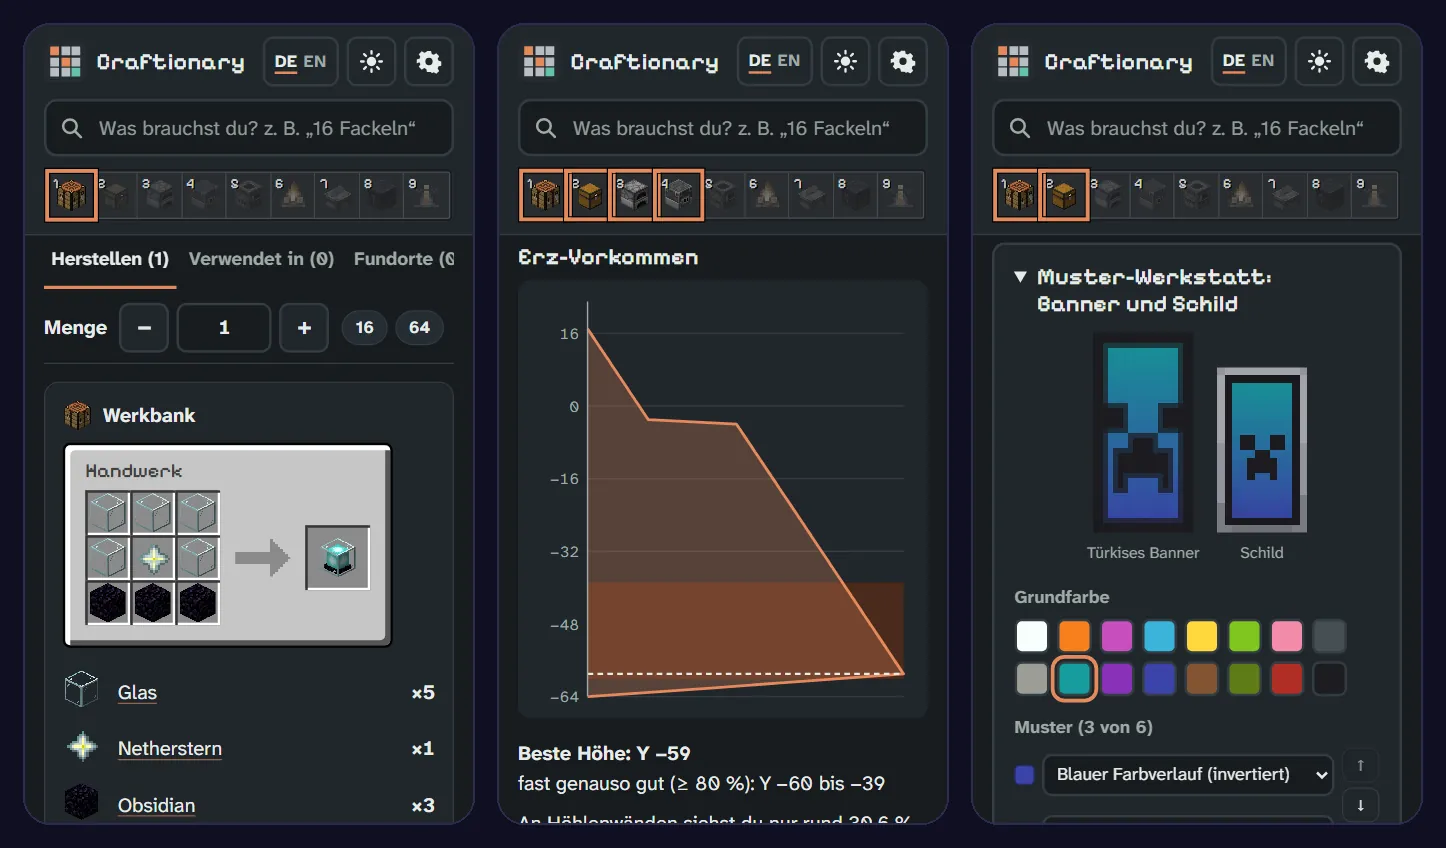
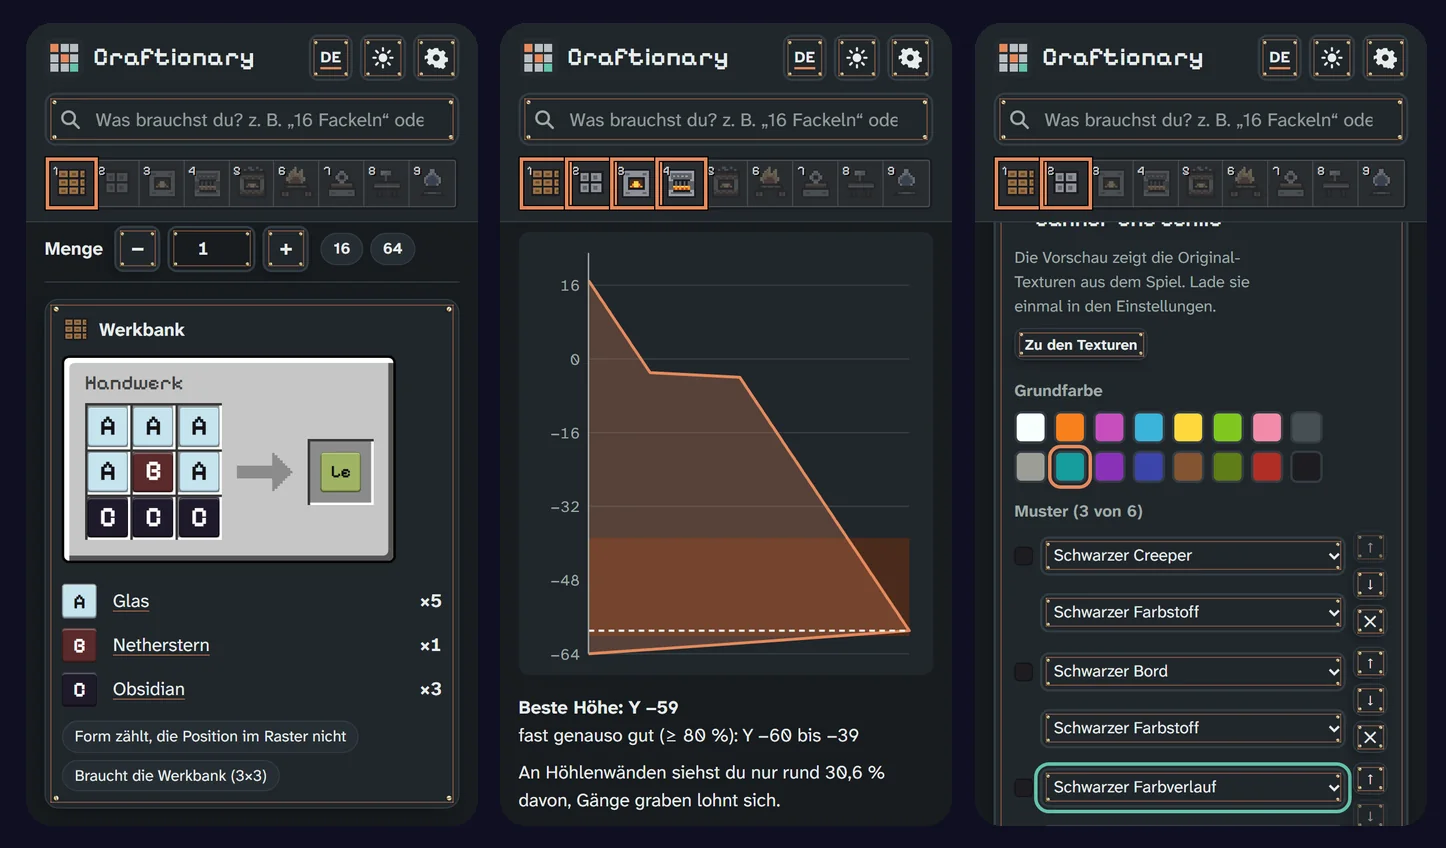
Bildschirmfotos im neuen Look: Heizwarte, Craftionary, BL4 und MW4, Bildbeschreibungen angepasst

Changed region(s): [[0.0311, 0.0307, 0.6535, 0.9811], [0.6535, 0.0307, 0.9959, 0.9811]]

diff --git a/README.md b/README.md
@@ -5,7 +5,7 @@ Recipe compendium for **Minecraft Java 26.3** as an installable web app (PWA) fo
 
 **Live:** https://dennismit2n.github.io/craftionary/ · [Anleitung und Neuigkeiten](https://dennismit2n.github.io/werkstatt.html#craftionary)
 
-<img src="docs/screenshot-de.webp" alt="Drei Handy-Ansichten von Craftionary, dunkel: das Rezept für ein Leuchtfeuer im Werkbank-Fenster mit der Materialliste aus Glas, Netherstern und Obsidian; die Kurve der Erz-Vorkommen nach Höhe mit der besten Höhe; und die Muster-Werkstatt mit einem türkisen Banner und Schild samt Grundfarbe und Mustern." width="800">
+<img src="docs/screenshot-de.webp" alt="Drei Handy-Ansichten von Craftionary, dunkel: das Rezept für ein Leuchtfeuer im Werkbank-Fenster mit der Materialliste aus Glas, Netherstern und Obsidian; die Kurve der Erz-Vorkommen nach Höhe mit der besten Höhe; und die Muster-Werkstatt mit türkiser Grundfarbe und drei Mustern." width="800">
 
 ## Deutsch
 
@@ -95,7 +95,7 @@ Rezeptdaten und Item-Namen stammen aus Minecraft, © Mojang AB/Microsoft.
 
 ## English
 
-<img src="docs/screenshot-en.webp" alt="Three phone screens of Craftionary, dark: the recipe for a beacon in the crafting table window with the material list of glass, nether star and obsidian; the curve of ore occurrence by height with the best level; and the pattern workshop with a turquoise banner and shield, base colour and patterns." width="800">
+<img src="docs/screenshot-en.webp" alt="Three phone screens of Craftionary, dark: the recipe for a beacon in the crafting table window with the material list of glass, nether star and obsidian; the curve of ore occurrence by height with the best level; and the pattern workshop with turquoise as the base colour and three patterns." width="800">
 
 ### Features
 
